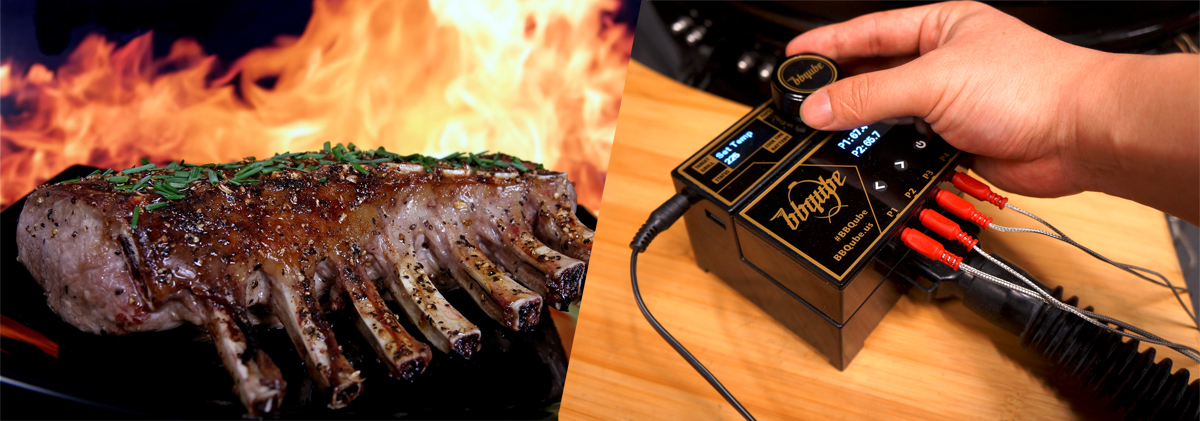
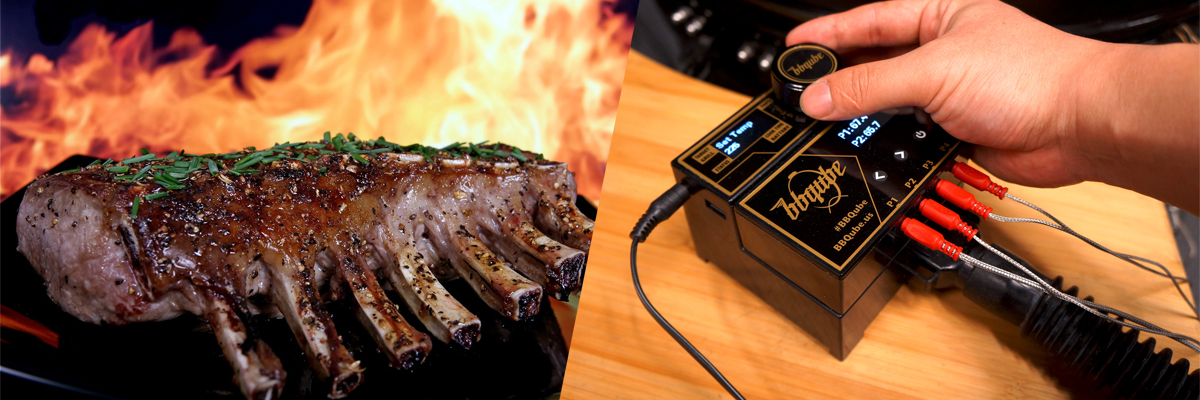
changed slider pictures

diff --git a/index.html b/index.html
@@ -10,10 +10,17 @@ description: Track and optimize your sales team in real time
 
 </head>
 <body>
-<section class="hero">
+<section class="hero" style="padding: top 5px;">
+   
+	<div class="text-container">
+		<h1>慢烤大师智能烤炉</h1>
+		<h1>您身边的美式BBQ专家</h1>
+		<p class="subtext editable"></p>
 
-    <!-- Begin #carousel-section -->
-    <section id="carousel-section" class="section-global-wrapper"> 
+    </div>
+    
+        <!-- Begin #carousel-section -->
+        <section id="carousel-section" class="section-global-wrapper"> 
             <div class="container-fluid-kamn">
                 <div class="row">
                     <div id="carousel-1" class="carousel slide" data-ride="carousel">
@@ -29,30 +36,30 @@ description: Track and optimize your sales team in real time
                         <div class="carousel-inner" role="listbox">
                             <!-- Begin Slide 1 -->
                             <div class="item active">
-                                <img src="../assets/img/slider/DSC00249.jpeg" width="100%" height="400" alt="Image of first carousel">
+                                <img src="/assets/img/slider/slider_1.jpg" width="100%" height="400" alt="Image of first carousel">
                                 <div class="carousel-caption">
-                                    <h3 class="carousel-title hidden-xs">Office BOOTSTRAP TEMPLATE</h3>
-                                    <p class="carousel-body">RESPONSIVE \ MULTI PAGE</p>
+                                    <h3 class="carousel-title hidden-xs">火和温度的艺术</h3>
+                                    <p class="carousel-body">慢烤大师让人人都成为大师</p>
                                 </div>
                             </div>
                             <!-- End Slide 1 -->
     
                             <!-- Begin Slide 2 -->
                             <div class="item">
-                                <img src="../assets/img/slider/DSC00471.jpeg" width="100%" height="400" alt="Image of second carousel">
+                                <img src="/assets/img/slider/slider_2.jpg" width="100%" height="400" alt="Image of second carousel">
                                 <div class="carousel-caption">
-                                    <h3 class="carousel-title hidden-xs">EASY TO CUSTOMIZE</h3>
-                                    <p class="carousel-body">BEAUTIFUL \ CLEAN \ MINIMAL</p>
+                                    <h3 class="carousel-title hidden-xs">完美的美式烧烤</h3>
+                                    <p class="carousel-body">简单方便正宗</p>
                                 </div>
                             </div>
                             <!-- End Slide 2 -->
     
                             <!-- Begin Slide 3 -->
                             <div class="item">
-                                <img src="../assets/img/slider/DSC00642.jpeg" width="100%" height="400" alt="Image of third carousel">
+                                <img src="/assets/img/slider/slider_3.jpg" width="100%" height="400" alt="Image of third carousel">
                                 <div class="carousel-caption">
-                                    <h3 class="carousel-title hidden-xs">MULTI-PURPOSE TEMPLATE</h3>
-                                    <p class="carousel-body">PORTFOLIO \ CORPORATE \ CREATIVE</p>
+                                    <h3 class="carousel-title hidden-xs">最全面的美式烤肉指南</h3>
+                                    <p class="carousel-body">我们提供最正宗的美式烤肉食谱</p>
                                 </div>
                             </div>
                             <!-- End Slide 3 -->
@@ -70,13 +77,6 @@ description: Track and optimize your sales team in real time
             </div>
         </section>
         <!-- End #carousel-section -->
-    
-	<div class="text-container">
-		<h1>慢烤大师智能烤炉</h1>
-		<h1>您身边的美式BBQ专家</h1>
-		<p class="subtext editable"></p>
-
-	</div>
 </section>
 <div class="content">
 		<div class="text-container">

diff --git a/_includes/navigation.html b/_includes/navigation.html
@@ -1,6 +1,6 @@
 <nav>
 	<a class="nav-toggle" id="open-nav" href="#">&#9776;</a>
-	<a class="editor-link btn" href="cloudcannon:collections/_data/navigation.yml" class="btn"><strong>&#9998;</strong> Edit navigation</a>
+	<!--<a class="editor-link btn" href="cloudcannon:collections/_data/navigation.yml" class="btn"><strong>&#9998;</strong> Edit navigation</a>-->
 	{% for link in site.data.navigation %}
 		{% assign class = "" %}
 		{% if link.highlight %}

diff --git a/_sass/layout.scss b/_sass/layout.scss
@@ -75,7 +75,7 @@ header {
 }
 
 section {
-	padding: 100px 0;
+	padding: 10px 0;
 }
 
 section + section {
